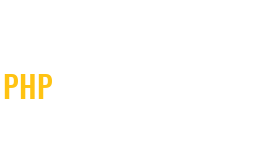
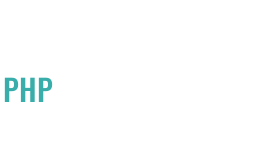
polluting images delete and custom nav

Changed region(s): [[0.0, 0.4675, 0.2066, 0.6753]]

diff --git a/public/css/style.css b/public/css/style.css
@@ -6,7 +6,7 @@
 }
 .btn,
 .btn-grey, 
-.btn-green {
+.btn {
     color: #ffffff;
     text-align: center;
     border: 0 !important; 
@@ -16,11 +16,7 @@
 }
 
 .btn {
-    background-color: #ffc312 !important;
-}
-
-.btn-green {
-    background-color: #38ada9;
+    background-color: #38ada9 !important;
 }
 
 .btn-grey {
@@ -28,7 +24,7 @@
 }
 
 .gold {
-    /* color: #84754e; */
+    /* color: #84754e gold; #60c904 vert*/
     color: #b43b1c;
 }
 
@@ -36,7 +32,7 @@
 
 .navbar-toggler,
 .navbar-toggler-icon {
-    color: #ffc312 !important;
+    color: #38ada9 !important;
     border: none !important;
 }
 
@@ -47,15 +43,11 @@
 .nav-link {
     color: #ffffff !important;
     text-align: center !important;
-    padding: 5px 15px !important;
+    padding: 5px 25px !important;
 }
 
 .active {
-    color: #FFC312 !important;
+    transition: .3s;
+    background: #38ada9 !important;
 }
 
-/* .active,
-.header-nav-top-link:hover {
-    transition: .3s;
-    background: #20bf6b;
-} */

diff --git a/src/Controller/PostController.php b/src/Controller/PostController.php
@@ -42,7 +42,7 @@ class PostController extends CoreController
         } elseif($this->userIsConnected()->getRoles() !== "Super_admin") {
             $error403 = new ErrorController;
             $error403->accessDenied(); 
-            
+        } else {
             // Récupérer le user connecté
             $userCurrent = $this->userIsConnected();
 
@@ -140,6 +140,9 @@ class PostController extends CoreController
         if (!$this->userIsConnected()) {
             // Sinon le rediriger vers la page de login
             header('Location: /security/login');
+        } elseif($this->userIsConnected()->getRoles() !== "Super_admin") {
+            $error403 = new ErrorController;
+            $error403->accessDenied(); 
         } else {
             // Récupérer le user connecté
             $userCurrent = $this->userIsConnected();
@@ -204,16 +207,22 @@ class PostController extends CoreController
     public function delete(string $slug)
     {
         $post = Post::findBySlug($slug);
-        dd($post);
-        if ($post) {
-            $this->flashes('success', "L'article a bien été supprimé.");
-            $post->delete();
-            header('Location: /post/list');
-            exit;
+        if (!$this->userIsConnected()) {
+            // Sinon le rediriger vers la page de login
+            header('Location: /security/login');
+        } elseif($this->userIsConnected()->getRoles() !== "Super_admin") {
+            $error403 = new ErrorController;
+            $error403->accessDenied(); 
         } else {
-            $this->flashes('danger', "Cet article n'existe pas!");
+            if ($post) {
+                $this->flashes('success', "L'article a bien été supprimé.");
+                $post->delete();
+                header('Location: /post/list');
+                exit;
+            } else {
+                $this->flashes('danger', "Cet article n'existe pas!");
+            }
         }
-
         $this->show('/post/read', [
             'post' => $post
         ]);

diff --git a/src/Controller/CoreController.php b/src/Controller/CoreController.php
@@ -64,7 +64,7 @@ class CoreController
         });
         $twig->addFunction($user);
 
-        $displayFlashes = new \Twig\TwigFunction('displayFlashes', function () {
+        $displayFlashes = new \Twig\TwigFunction('display_flashes', function () {
 
             $flashes = isset($_SESSION['flashes']) ? $_SESSION['flashes'] : [];
             
